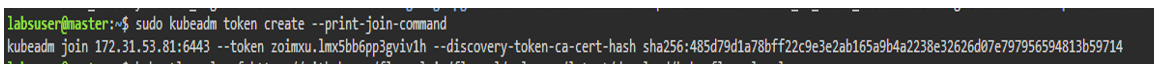
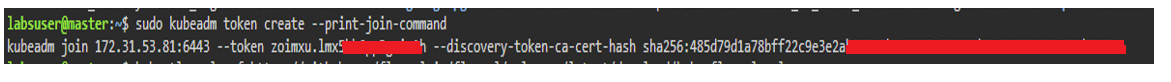
add join work node

Changed region(s): [[0.7071, 0.4878, 0.9838, 0.6585], [0.2767, 0.4878, 0.3689, 0.6585]]

diff --git a/on-premise-k8s.md b/on-premise-k8s.md
@@ -88,8 +88,54 @@ Add the Weave Net CNI plugin for highly available cluster
 # download the kube-flannel.yml
 curl https://github.com/flannel-io/flannel/releases/latest/download/kube-flannel.yml
 
+```
+> Don't forget change the network IP to 
+> ```
+> "Network": "192.168.0.0/16",
+> ```
+> according the <code>pod-network-cidr</code> parameter in the <code>kubeadm</code> initialization.
+>
+
+Then apply the <code>kube-flannel.yml</code>
+
+``` bash
 # apply the kube-flannel.yml
 kubectl apply -f kube-flannel.yml
 ```
 
 ## 4. Joining the Worker Nodes to The Cluster
+
+On the <code>worker-node-1</code> and <code>worker-node-2</code> run the following command to join to the cluster.
+
+``` bash
+kubeadm join 172.31.53.81:6443 --token zoimxu.lmx5bxxxxx --dicovery-token-ca-cert-hash sha256:485d79d1a78bxxxxxxxxxxxxxxxxxxxx
+```
+
+To checking the nodes whether joined to the cluster
+
+``` bash
+# get all joined nodes in the cluster
+kubectl get nodes
+
+# get the namespaces
+kubectl get namespaces
+
+# get pods with namespace
+kubectl get pods --all-namespaces
+kubectk get pods -A
+```
+
+<img src="https://github.com/neutrofoton/HiKubernetes/blob/main/images-on-premise/kubeadm-check-nodes.png" alt=""/>
+
+> If you got status <code>ContainerCreating</code> for long time, 
+you can conside doing a full reboot of VMs that are running the Kubernetes master node and Kubernetes worker nodes. 
+
+<img src="https://github.com/neutrofoton/HiKubernetes/blob/main/images-on-premise/kubeadm-check-nodes-ok.png" alt=""/>
+
+If further issue still occur with the pods you can check using
+``` bash
+kubectl describe pod <name>
+```
+
+# References
+1. https://stackoverflow.com/questions/48190928/kubernetes-pod-remains-in-containercreating-status
